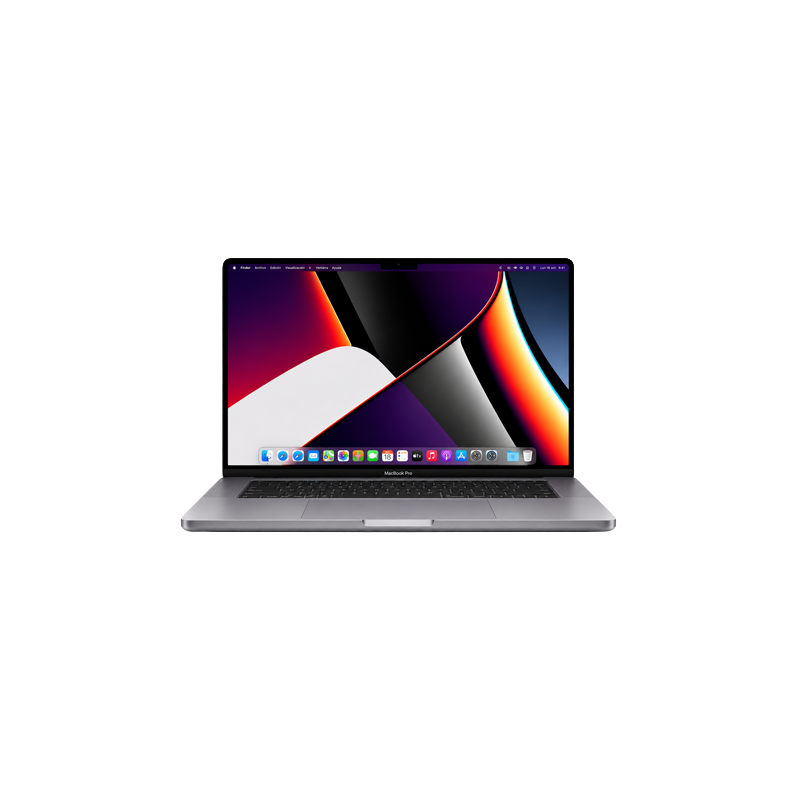
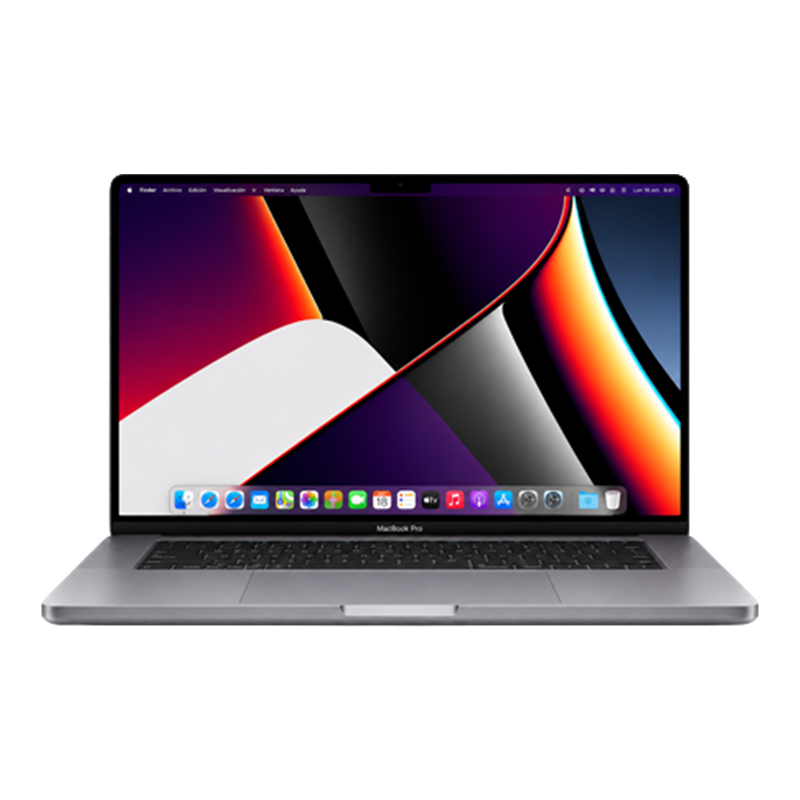
feat: actualizar imagenes optimizadas 800x800 de MacBook Pro M1/M2/M3 y Core i7/i9, mapa vectorial con referencia de tienda, icono whatsapp y footer legal

diff --git a/components/TiendaClient.tsx b/components/TiendaClient.tsx
@@ -1,7 +1,8 @@
-"use client";
+"use client";
 
 import { motion } from "framer-motion";
 import { MapPin, Phone, Clock } from "lucide-react";
+import { FaWhatsapp } from "react-icons/fa6";
 
 const ease: [number, number, number, number] = [0.16, 1, 0.3, 1];
 
@@ -9,7 +10,7 @@ const INFO = [
   {
     Icon: MapPin,
     title: "Dirección",
-    lines: ["Calle Oslo 198, Oficina 201", "Los Portales - Ate, Lima"],
+    lines: ["Calle Oslo 198, Oficina 201", "Los Portales - Ate, Lima", "Ref: Altura de Av. Separadora Industrial"],
   },
   {
     Icon: Phone,
@@ -98,8 +99,9 @@ export function TiendaClient() {
                 href="https://wa.me/51934288165?text=Hola,%20quiero%20coordinar%20una%20visita%20a%20la%20tienda"
                 target="_blank"
                 rel="noopener noreferrer"
-                className="w-full block text-center bg-[#0071e3] hover:bg-[#0077ed] text-white py-3 rounded-full text-sm font-semibold transition-colors duration-200"
+                className="w-full flex items-center justify-center gap-2 bg-[#0071e3] hover:bg-[#0077ed] text-white py-3 rounded-full text-sm font-semibold transition-colors duration-200 shadow-sm"
               >
+                <FaWhatsapp className="w-4 h-4 shrink-0" />
                 Coordinar visita
               </a>
             </div>
@@ -112,29 +114,47 @@ export function TiendaClient() {
             transition={{ duration: 0.8, delay: 0.3, ease }}
             className="bg-white dark:bg-[#111111] rounded-2xl sm:rounded-3xl border border-[#d2d2d7]/40 dark:border-[#2a2a2a] overflow-hidden"
           >
-            {/* Map placeholder with Apple Maps aesthetic */}
-            <div className="h-56 sm:h-72 lg:h-80 bg-[#f5f5f7] dark:bg-[#1a1a1a] relative flex items-center justify-center">
-              {/* Grid lines for map feel */}
-              <div className="absolute inset-0 opacity-20 dark:opacity-10" style={{ backgroundImage: 'linear-gradient(#d2d2d7 1px, transparent 1px), linear-gradient(90deg, #d2d2d7 1px, transparent 1px)', backgroundSize: '40px 40px' }} />
-              <div className="relative z-10 flex flex-col items-center gap-3">
-                <div className="w-12 h-12 rounded-full bg-[#0071e3] shadow-lg shadow-[#0071e3]/30 flex items-center justify-center">
-                  <MapPin className="w-6 h-6 text-white" />
-                </div>
-                <div className="bg-white dark:bg-[#1d1d1f] rounded-xl px-4 py-2 shadow-lg border border-[#d2d2d7]/40 dark:border-[#2a2a2a]">
-                  <p className="text-xs font-semibold text-[#1d1d1f] dark:text-white">Apple Express</p>
-                  <p className="text-[10px] text-[#6e6e73]">Calle Oslo 198, Ate</p>
-                </div>
+            {/* Clean Vector Map Embed */}
+            <div className="h-64 sm:h-72 lg:h-80 w-full relative bg-[#f5f5f7] dark:bg-[#1a1a1a] overflow-hidden border-b border-[#e8e8ed] dark:border-[#2a2a2a]">
+              <iframe
+                src="https://www.google.com/maps/embed?pb=!1m18!1m12!1m3!1d3901.6918563391438!2d-76.93287282493888!3d-12.044654788191982!2m3!1f0!2f0!3f0!3m2!1i1024!2i768!4f13.1!3m3!1m2!1s0x9105c6c06a38221b%3A0x6b8408f6153724c9!2sCalle%20Oslo%20198%2C%20Ate%2015012!5e0!3m2!1ses!2spe!4v1787851382209!5m2!1ses!2spe"
+                width="100%"
+                height="100%"
+                style={{ border: 0 }}
+                allowFullScreen
+                loading="lazy"
+                referrerPolicy="strict-origin-when-cross-origin"
+                className="w-full h-full filter saturate-[1.1] contrast-[1.02]"
+              />
+              {/* Floating Apple-style pin badge */}
+              <div className="absolute top-3 left-3 bg-white/95 dark:bg-[#1d1d1f]/95 backdrop-blur-md px-3 py-1.5 rounded-full border border-black/5 dark:border-white/10 shadow-md flex items-center gap-1.5 pointer-events-none">
+                <span className="w-2 h-2 rounded-full bg-[#0071e3] animate-pulse" />
+                <span className="text-[11px] font-semibold text-[#1d1d1f] dark:text-white">Apple Express · Ate</span>
               </div>
             </div>
 
-            <div className="px-7 sm:px-10 py-6 sm:py-8">
-              <p className="text-sm text-[#1d1d1f] dark:text-white font-semibold mb-1">Calle Oslo 198, Oficina 201</p>
-              <p className="text-xs text-[#6e6e73] mb-5">Los Portales - Ate, Lima, Perú</p>
+            <div className="px-7 sm:px-10 py-6 sm:py-8 space-y-4">
+              <div>
+                <p className="text-[10px] font-semibold text-[#6e6e73] uppercase tracking-[0.16em] mb-1">Ubicación</p>
+                <p className="text-[15px] text-[#1d1d1f] dark:text-white font-semibold">Calle Oslo 198, Oficina 201</p>
+                <p className="text-xs text-[#6e6e73]">Urb. Los Portales — Ate, Lima, Perú</p>
+              </div>
+
+              <div className="p-3.5 rounded-xl bg-[#f5f5f7] dark:bg-[#1a1a1a] border border-[#e8e8ed] dark:border-[#2a2a2a]">
+                <p className="text-[11px] font-semibold text-[#1d1d1f] dark:text-white mb-1 flex items-center gap-1.5">
+                  <span className="w-1.5 h-1.5 rounded-full bg-[#0071e3] shrink-0" />
+                  Referencia de llegada:
+                </p>
+                <p className="text-xs text-[#6e6e73] dark:text-[#86868b] leading-relaxed">
+                  A la altura de la Av. Separadora Industrial, cerca a Mayorazgo y a pocos minutos del Óvalo Huarochirí / Real Plaza Puruchuco.
+                </p>
+              </div>
+
               <a
-                href="https://maps.google.com/?q=Calle+Oslo+198+Ate+Lima"
+                href="https://maps.google.com/?q=-12.0446548,-76.9328728"
                 target="_blank"
                 rel="noopener noreferrer"
-                className="inline-flex items-center gap-1.5 text-[#0071e3] hover:text-[#0077ed] text-sm font-semibold hover:underline underline-offset-2 transition-colors duration-200"
+                className="inline-flex items-center gap-1.5 text-[#0071e3] hover:text-[#0077ed] text-sm font-semibold hover:underline underline-offset-2 transition-colors duration-200 pt-1"
               >
                 Abrir en Google Maps &rarr;
               </a>

diff --git a/lib/data.ts b/lib/data.ts
@@ -45,7 +45,7 @@ export const MACBOOKS = [
     screen: "Liquid Retina XDR de 16.2\"",
     battery: "Hasta 21 horas de batería",
     ports: "3x Thunderbolt 4, HDMI, SDXC, MagSafe 3",
-    image: "https://images.unsplash.com/photo-1517336714731-489689fd1ca8?auto=format&fit=crop&w=800&q=80"
+    image: "/mac/macbook16-m12021-1tb.png"
   },
   {
     slug: "macbook-pro-16-m1-2021-32gb-1tb",
@@ -57,7 +57,7 @@ export const MACBOOKS = [
     screen: "Liquid Retina XDR de 16.2\"",
     battery: "Hasta 21 horas de batería",
     ports: "3x Thunderbolt 4, HDMI, SDXC, MagSafe 3",
-    image: "https://images.unsplash.com/photo-1517336714731-489689fd1ca8?auto=format&fit=crop&w=800&q=80"
+    image: "/mac/macbook16-m12021-1tb.png"
   },
   {
     slug: "macbook-pro-16-m1-max-2021-32gb-1tb",
@@ -70,7 +70,7 @@ export const MACBOOKS = [
     screen: "Liquid Retina XDR de 16.2\"",
     battery: "Hasta 21 horas de batería",
     ports: "3x Thunderbolt 4, HDMI, SDXC, MagSafe 3",
-    image: "https://images.unsplash.com/photo-1517336714731-489689fd1ca8?auto=format&fit=crop&w=800&q=80"
+    image: "/mac/macbook16-m12021-1tb.png"
   },
   {
     slug: "macbook-pro-16-m2-2023-16gb-512gb",
@@ -82,7 +82,7 @@ export const MACBOOKS = [
     screen: "Liquid Retina XDR de 16.2\"",
     battery: "Hasta 22 horas de batería",
     ports: "3x Thunderbolt 4, HDMI, SDXC, MagSafe 3",
-    image: "https://images.unsplash.com/photo-1517336714731-489689fd1ca8?auto=format&fit=crop&w=800&q=80"
+    image: "/mac/macbook16-m22023-512.png"
   },
   {
     slug: "macbook-pro-16-m2-2023-32gb-512gb",
@@ -94,7 +94,7 @@ export const MACBOOKS = [
     screen: "Liquid Retina XDR de 16.2\"",
     battery: "Hasta 22 horas de batería",
     ports: "3x Thunderbolt 4, HDMI, SDXC, MagSafe 3",
-    image: "https://images.unsplash.com/photo-1517336714731-489689fd1ca8?auto=format&fit=crop&w=800&q=80"
+    image: "/mac/macbook16-m22023-512.png"
   },
   {
     slug: "macbook-pro-16-m3-2024-36gb-1tb",
@@ -106,7 +106,7 @@ export const MACBOOKS = [
     screen: "Liquid Retina XDR de 16.2\"",
     battery: "Hasta 22 horas de batería",
     ports: "3x Thunderbolt 4, HDMI, SDXC, MagSafe 3",
-    image: "https://images.unsplash.com/photo-1517336714731-489689fd1ca8?auto=format&fit=crop&w=800&q=80"
+    image: "/mac/macbook16-m32024-1.png"
   },
   {
     slug: "macbook-pro-16-2019-i7-16gb-512gb-5300",
@@ -119,7 +119,7 @@ export const MACBOOKS = [
     screen: "Pantalla Retina de 16\"",
     battery: "Hasta 11 horas de batería",
     ports: "4 puertos Thunderbolt 3 (USB-C)",
-    image: "https://images.unsplash.com/photo-1517336714731-489689fd1ca8?auto=format&fit=crop&w=800&q=80"
+    image: "/core/macbookpro16-corei7-512.png"
   },
   {
     slug: "macbook-pro-16-2019-i9-32gb-1tb-5300",
@@ -132,7 +132,7 @@ export const MACBOOKS = [
     screen: "Pantalla Retina de 16\"",
     battery: "Hasta 11 horas de batería",
     ports: "4 puertos Thunderbolt 3 (USB-C)",
-    image: "https://images.unsplash.com/photo-1517336714731-489689fd1ca8?auto=format&fit=crop&w=800&q=80"
+    image: "/core/macbookpro16-corei7-1tb.png"
   },
   {
     slug: "macbook-pro-16-2019-i9-32gb-1tb-5500",
@@ -145,7 +145,7 @@ export const MACBOOKS = [
     screen: "Pantalla Retina de 16\"",
     battery: "Hasta 11 horas de batería",
     ports: "4 puertos Thunderbolt 3 (USB-C)",
-    image: "https://images.unsplash.com/photo-1517336714731-489689fd1ca8?auto=format&fit=crop&w=800&q=80"
+    image: "/core/macbookpro32-corei9-1tb.png"
   },
   {
     slug: "macbook-pro-16-2019-i9-32gb-2tb-5500",
@@ -158,7 +158,7 @@ export const MACBOOKS = [
     screen: "Pantalla Retina de 16\"",
     battery: "Hasta 11 horas de batería",
     ports: "4 puertos Thunderbolt 3 (USB-C)",
-    image: "https://images.unsplash.com/photo-1517336714731-489689fd1ca8?auto=format&fit=crop&w=800&q=80"
+    image: "/core/macbookpro32-corei9-2tb.png"
   },
   {
     slug: "macbook-pro-16-2019-i9-64gb-512gb-5500-4gb",
@@ -171,7 +171,7 @@ export const MACBOOKS = [
     screen: "Pantalla Retina de 16\"",
     battery: "Hasta 11 horas de batería",
     ports: "4 puertos Thunderbolt 3 (USB-C)",
-    image: "https://images.unsplash.com/photo-1517336714731-489689fd1ca8?auto=format&fit=crop&w=800&q=80"
+    image: "/core/macbookpro64-corei9-512.png"
   },
   {
     slug: "macbook-pro-16-2019-i9-64gb-1tb-5500-4gb",
@@ -184,7 +184,7 @@ export const MACBOOKS = [
     screen: "Pantalla Retina de 16\"",
     battery: "Hasta 11 horas de batería",
     ports: "4 puertos Thunderbolt 3 (USB-C)",
-    image: "https://images.unsplash.com/photo-1517336714731-489689fd1ca8?auto=format&fit=crop&w=800&q=80"
+    image: "/core/macbookpro64-corei9-1.png"
   },
   {
     slug: "macbook-pro-16-2019-i9-64gb-1tb-5500-8gb",
@@ -197,7 +197,7 @@ export const MACBOOKS = [
     screen: "Pantalla Retina de 16\"",
     battery: "Hasta 11 horas de batería",
     ports: "4 puertos Thunderbolt 3 (USB-C)",
-    image: "https://images.unsplash.com/photo-1517336714731-489689fd1ca8?auto=format&fit=crop&w=800&q=80"
+    image: "/core/macbookpro64-corei9-1-8.png"
   },
   {
     slug: "macbook-pro-16-2019-i9-64gb-2tb-5500-8gb",
@@ -210,7 +210,7 @@ export const MACBOOKS = [
     screen: "Pantalla Retina de 16\"",
     battery: "Hasta 11 horas de batería",
     ports: "4 puertos Thunderbolt 3 (USB-C)",
-    image: "https://images.unsplash.com/photo-1517336714731-489689fd1ca8?auto=format&fit=crop&w=800&q=80"
+    image: "/core/macbookpro64-corei9-2-8.png"
   },
   {
     slug: "macbook-pro-16-2019-i9-64gb-1tb-5600-8gb",
@@ -223,7 +223,7 @@ export const MACBOOKS = [
     screen: "Pantalla Retina de 16\"",
     battery: "Hasta 11 horas de batería",
     ports: "4 puertos Thunderbolt 3 (USB-C)",
-    image: "https://images.unsplash.com/photo-1517336714731-489689fd1ca8?auto=format&fit=crop&w=800&q=80"
+    image: "/core/macbookpro64-corei9-2-8.png"
   }
 ];
 

diff --git a/components/Footer.tsx b/components/Footer.tsx
@@ -1,4 +1,4 @@
-import Link from "next/link";
+import Link from "next/link";
 import { FaFacebook, FaInstagram, FaTiktok } from "react-icons/fa6";
 
 const CATEGORIES = [
@@ -89,7 +89,7 @@ export function Footer() {
         <div className="flex flex-col sm:flex-row items-start sm:items-center justify-between gap-3 sm:gap-0">
           <div className="text-xs leading-relaxed">
             <p className="text-white font-medium mb-0.5">FHARMAG S.A.C &mdash; RUC: 20612083950</p>
-            <p>Importador independiente. No afiliado con Apple Inc.</p>
+            <p>Importación directa de tecnología original desde Estados Unidos.</p>
           </div>
           <p className="text-xs whitespace-nowrap text-[#6e6e73]">
             &copy; {new Date().getFullYear()} Apple Express

diff --git a/app/tienda/page.tsx b/app/tienda/page.tsx
@@ -1,4 +1,4 @@
-import type { Metadata } from "next";
+import type { Metadata } from "next";
 import { Navbar } from "@/components/Navbar";
 import { Footer } from "@/components/Footer";
 import { TiendaClient } from "@/components/TiendaClient";
@@ -32,8 +32,8 @@ const tiendaJsonLd = {
   },
   geo: {
     "@type": "GeoCoordinates",
-    latitude: -12.0432,
-    longitude: -76.9352,
+    latitude: -12.0446548,
+    longitude: -76.9328728,
   },
   openingHoursSpecification: [
     {
